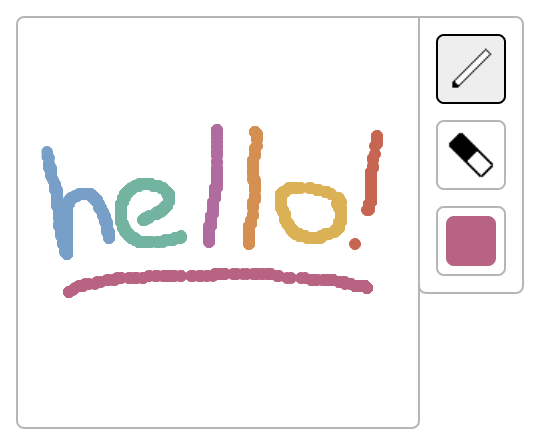
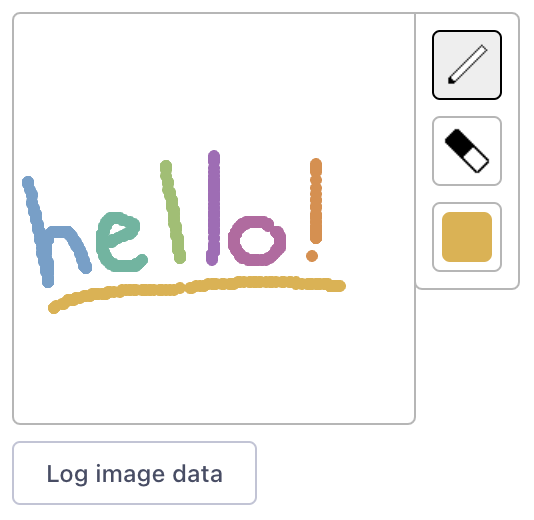
Make demo image less obtrusive

Changed region(s): [[0.0, 0.0, 0.9888, 0.975], [0.3895, 0.3545, 0.4195, 0.3841], [0.3895, 0.2659, 0.4195, 0.2955]]

diff --git a/README.md b/README.md
@@ -2,7 +2,7 @@
 
 A tiny image editor.
 
-![Blot demo image](/src/images/demo.png)
+<img src="/src/images/demo.png" alt="Blot demo image" width="267" />
 
 - Supports painting in a few colors. Supports erasing.
 - I wanted a really simple paint program, and found nothing, so I made Blot.
